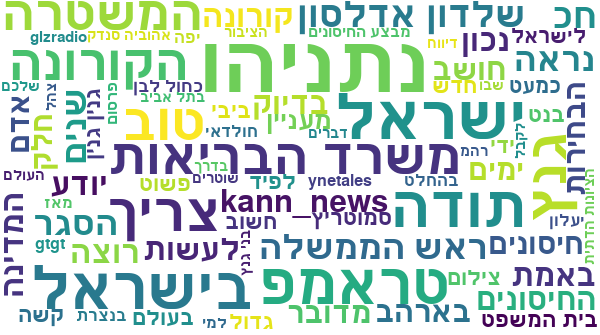
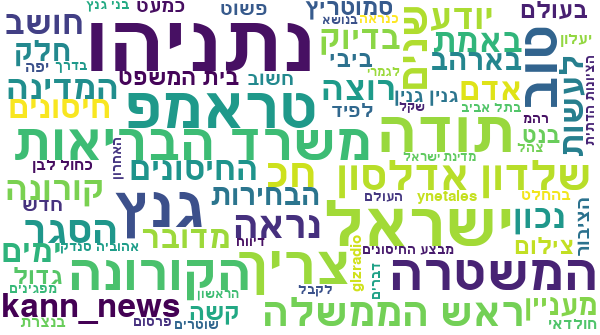
Instagram Scraping Project Initialization

diff --git a/Instagram Dictionaries.py b/Instagram Dictionaries.py
@@ -1,0 +1,103 @@
+politicians_dct = {'Abutbul': ['mkabutbulmoshe', 'Shas', 'Male', 'אבוטבול'],
+                   'Avidar': ['eavidar', 'Israel_Beytenu', 'Male', 'אבידר'],
+                   'Edelstein': ['yuli.edelstein', 'Likud', 'Male', 'אדלשטיין'],
+                   'Elharrar': ['karinel09', 'Yesh_Atid', 'Female', 'אלהרר'],
+
+                   'Alkhrumi': ['saeedalkhrumi', 'Meshutefet', 'Male', 'אלחרומי'],
+                   'Elkin': ['zeev_elkin', 'Tikva_Chadasha', 'Male', 'אלקין'],
+                   'Amsalem': ['dudiamsalem', 'Likud', 'Male', 'אמסלם'],
+                   'Akunis': ['OfirAkunis', 'Likud', 'Male', 'אקוניס'],
+                   'Ashkenazi': ['Gabi_Ashkenazi', 'Kachol_Lavan', 'Male', 'אשכנזי'],
+                   'Busso': ['BussoUriel', 'Shas', 'Male', 'בוסו'],
+                   'Bitan': ['davidbitan', 'Likud', 'Male', 'ביטן'],
+                   'Bennett': ['naftalibennett', 'Yamina', 'Male', 'בנט'],
+                   'Barbivay': ['OrnaBarb', 'Yesh_Atid', 'Female', 'ברביבאי'],
+                   'Barak': ['KerenBarak', 'Likud', 'Female', 'ברק'],
+                   'Barkat': ['NirBarkat', 'Likud', 'Male', 'ברקת'],
+                   'Golan_Yair': ['YairGolan1', 'Meretz', 'Male', 'גולן יאיר'],
+                   'Golan_May': ['GolanMay', 'Likud', 'Female', 'גולן מאי'],
+                   'Ginzburg': ['EitanGinzburg', 'Kachol_Lavan', 'Male', 'גינזבורג'],
+                   'Gallant': ['yoavgallant', 'Likud', 'Male', 'גלנט'],
+                   'Gamliel': ['GilaGamliel', 'Likud', 'Female', 'גמליאל'],
+                   'Gantz': ['gantzbe', 'Kachol_Lavan', 'Male', 'גנץ'],
+                   'Dayan_Uzi': ['DayanUzi', 'Likud', 'Male', 'דיין עוזי'],
+                   'Dayan_Dani': ['dandayan', 'Tikva_Chadasha', 'Male', 'דיין דני'],
+                   'Dichter': ['avidichter', 'Likud', 'Male', 'דיכטר'],
+                   'Hauser': ['ZviHauser', 'Derech_Eretz', 'Male', 'האוזר'],
+                   'Horowitz': ['NitzanHorowitz', 'Meretz', 'Male', 'הורוביץ'],
+                   'Halevi': ['HaleviAmit', 'Likud', 'Male', 'הלוי'],
+                   'Hanegbi': ['Tzachi_Hanegbi', 'Likud', 'Male', 'הנגבי'],
+                   'Hendel': ['YoazHendel1', 'Derech_Eretz', 'Male', 'הנדל'],
+                   'Haskel': ['SharrenHaskel', 'Tikva_Chadasha', 'Female', 'השכל'],
+                   'Cotler-Wunsh': ['CotlerWunsh', 'Kachol_Lavan', 'Female', 'וונש'],
+                   'Zohar': ['zoharm7', 'Likud', 'Male', 'זוהר'],
+                   'Zamir': ['asafzamir', 'Kachol_Lavan', 'Male', 'זמיר'],
+                   'Zandberg': ['tamarzandberg', 'Meretz', 'Female', 'זנדברג'],
+                   'Huldai': ['Ron_Huldai', 'Haisraelim', 'Male', 'חולדאי'],
+                   'Khatib-Yassin': ['khatib_eman', 'Meshutefet', 'Female', 'חטיב-יאסין'],
+                   'Haimovich': ['mikihaimovich1', 'Kachol_Lavan', 'Female', 'חיימוביץ'],
+                   'Toporovsky': ['BToporovsky', 'Yesh_Atid', 'Male', 'טופורובסקי'],
+                   'Tibi': ['Ahmad_tibi', 'Meshutefet', 'Male', 'טיבי'],
+                   'Taieb': ['yossitaieb', 'Shas', 'Male', 'טייב'],
+                   'Yevarkan': ['GYevarkan', 'Likud', 'Male', 'יברקן'],
+                   'Yankelevitch': ['omeryankelevitc', 'Kachol_Lavan', 'Female', 'ינקלביץ'],
+                   'Yaalon': ['bogie_yaalon', 'Yesh_Atid', 'Male', 'יעלון'],
+                   'Yatom': ['DannyYatom', 'Vatikei_Israel', 'Male', 'יתום'],
+                   'Cohen_Eli': ['elicoh1', 'Likud', 'Male', 'כהן אלי'],
+                   'Cohen_Meir': ['MKmeircohen', 'Yesh_Atid', 'Male', 'כהן מאיר'],
+                   'Cohen_Meirav': ['cohen_meirav', 'Yesh_Atid', 'Female', 'כהן מירב'],
+                   'Cohen_Roee': ['roee_cohen19', 'Tnufa', 'Male', 'כהן רועי'],
+                   'Kahana': ['MatanKahana', 'Yamina', 'Male', 'כהנא'],
+                   'Kamal-Mreeh': ['GadeerMreeh', 'Yesh_Atid', 'Female', 'כמאל-מריח'],
+                   'Cassif': ['ofercass', 'Meshutefet', 'Male', 'כסיף'],
+                   'Katz_Ofir': ['OfirKatzMK', 'Likud', 'Male', 'כץ אופיר'],
+                   'Katz_Israel': ['Israel_katz', 'Likud', 'Male', 'כץ ישראל'],
+                   'Lahav-Hertzanu': ['YoraiLahav', 'Yesh_Atid', 'Male', 'להר-הרצנו'],
+                   'Levy': ['MKMickeyLevy', 'Yesh_Atid', 'Male', 'לוי'],
+                   'Levy-Abekasis': ['Orly_levy', 'Gesher', 'Female', 'לוי-אבקסיס'],
+                   'Liberman': ['AvigdorLiberman', 'Israel_Beytenu', 'Male', 'ליברמן'],
+                   'Lapid': ['yairlapid', 'Yesh_Atid', 'Male', 'לפיד'],
+                   'Mark': ['OsnathilaMark', 'Likud', 'Female', 'מארק'],
+                   'Mulla': ['FateenMulla', 'Likud', 'Male', 'מולא'],
+                   'Michaeli': ['MeravMichaeli', 'Avoda', 'Female', 'מיכאלי'],
+                   'Malinovsky': ['YuliaMalinovsky', 'Israel_Beytenu', 'Female', 'מלינובסקי'],
+                   'Malkieli': ['malkielim82', 'Shas', 'Male', 'מלכיאלי'],
+                   'Margi': ['yakmargi', 'Shas', 'Male', 'מרגי'],
+                   'Nahon': ['karineb', 'Haisraelim', 'Female', 'נהון'],
+                   'Nissenkorn': ['AviNissenkorn', 'Haisraelim', 'Male', 'ניסנקורן'],
+                   'Netanyahu': ['b.netanyahu', 'Likud', 'Male', 'נתניהו'],
+                   'Segalovitz': ['YSegalovitz', 'Yesh_Atid', 'Male', 'סגלוביץ'],
+                   'Sova': ['evgenysova', 'Israel_Beytenu', 'Male', 'סובה'],
+                   'Sofer': ['ofir_sofer', 'Yamina', 'Male', 'סופר'],
+                   'Smotrich': ['bezalelsm', 'Yamina', 'Male', 'סמוטריץ'],
+                   'Saar': ['gidonsaar', 'Tikva_Chadasha', 'Male', 'סער'],
+                   'Abbas': ['mnsorabbas', 'Meshutefet', 'Male', 'עבאס'],
+                   'Odeh': ['AyOdeh', 'Meshutefet', 'Male', 'עודה'],
+                   'Atia-Hava': ['ettyatia', 'Likud', 'Female', 'עטייה-חוה'],
+                   'Forer': ['oded_forer', 'Israel_Beytenu', 'Male', 'פורר'],
+                   'Ploskov': ['TaliPloskov', 'Likud', 'Female', 'פלוסקוב'],
+                   'Froman': ['mkorlyfroman', 'Yesh_Atid', 'Female', 'פרומן'],
+                   'Friedman': ['TehilaFriedman', 'Kachol_Lavan', 'Female', 'פרידמן'],
+                   'Peretz_Amir': ['amirperetz', 'Avoda', 'Male', 'פרץ עמיר'],
+                   'Peretz_Rafi': ['realrafiperets', 'Bait_Yehudi', 'Male', 'פרץ רפי'],
+                   'Kushnir': ['kushnir_al', 'Israel_Beytenu', 'Male', 'קושניר'],
+                   'Kisch': ['YoavKisch', 'Likud', 'Male', 'קיש'],
+                   'Kallner': ['ArielKallner', 'Likud', 'Male', 'קלנר'],
+                   'Karhi': ['shlomo_karhi', 'Likud', 'Male', 'קרעי'],
+                   'Regev': ['regev_miri', 'Likud', 'Female', 'רגב'],
+                   'Roll': ['idanroll', 'Yesh_Atid', 'Male', 'רול'],
+                   'Razvozov': ['YRazvozov', 'Yesh_Atid', 'Male', 'רזבוזוב'],
+                   'Shasha-Biton': ['sbyifat', 'Tikva_Chadasha', 'Female', 'שאשא-ביטון'],
+                   'Shihadeh': ['MtanesShihadeh', 'Meshutefet', 'Male', 'שחאדה'],
+                   'Steinitz': ['steinitz_yuval', 'Likud', 'Male', 'שטייניץ'],
+                   'Shitrit': ['shitrit_keti', 'Likud', 'Female', 'שטרית'],
+                   'Stern': ['Elazar_stern', 'Yesh_Atid', 'Male', 'שטרן'],
+                   'Shay-Vazan': ['HVazan', 'Kachol_Lavan', 'Female', 'שי-וזאן'],
+                   'Shir': ['MichalShir', 'Tikva_Chadasha', 'Female', 'שיר'],
+                   'Shelah': ['OferShelah', 'Tnufa', 'Male', 'שלח'],
+                   'Shmuli': ['ishmuli', 'Avoda', 'Male', 'שמולי'],
+                   'Shefa': ['ramshefa', 'Kachol_Lavan', 'Male', 'שפע'],
+                   'Shaked': ['Ayelet__Shaked', 'Yamina', 'Female', 'שקד'],
+                   'Touma-Sliman': ['AidaTuma', 'Meshutefet', 'Female', 'תומא-סלימאן'],
+                   'Tamano-Shata': ['pnina_tamano_sh', 'Kachol_Lavan', 'Female', 'תמנו-שטה'],
+                   'Zelekha': ['PZelekha', 'Hacalcalit', 'Male', 'זליכה']}

diff --git a/Stopwords.py b/Stopwords.py
@@ -150,7 +150,10 @@ stopwords_manually = ['אני',
                       'שבו',
                       'ידי',
                       'לישראל',
-                      'בישראל']
+                      'בישראל',
+                      'kann_news',
+                      'ynetales',
+                      'glzradio']
 
 stopwords_lst = stopwords_lst + stopwords_manually
 

diff --git a/Functions.py b/Functions.py
@@ -80,7 +80,7 @@ def tweets_df(dct, startDate, endDate):
 
     # Creating the followers lst by iterating through the key lst and returning for each unique name its followers num
     for name in key_lst:
-        userpage = api.get_user(politicians_dct[name][0])
+        userpage = api.get_user(dct[name][0])
         fol = userpage.followers_count
         fol_lst.append(fol)
 

diff --git a/Instagram Scraping.py b/Instagram Scraping.py
@@ -1,0 +1,11 @@
+import instagramy
+
+instagramy.Inst
+
+ayelet = instagramy.InstagramUser('b.netanyahu')
+
+ayelet.posts
+
+# return list of dicts
+posts = user.get_posts_details()
+
